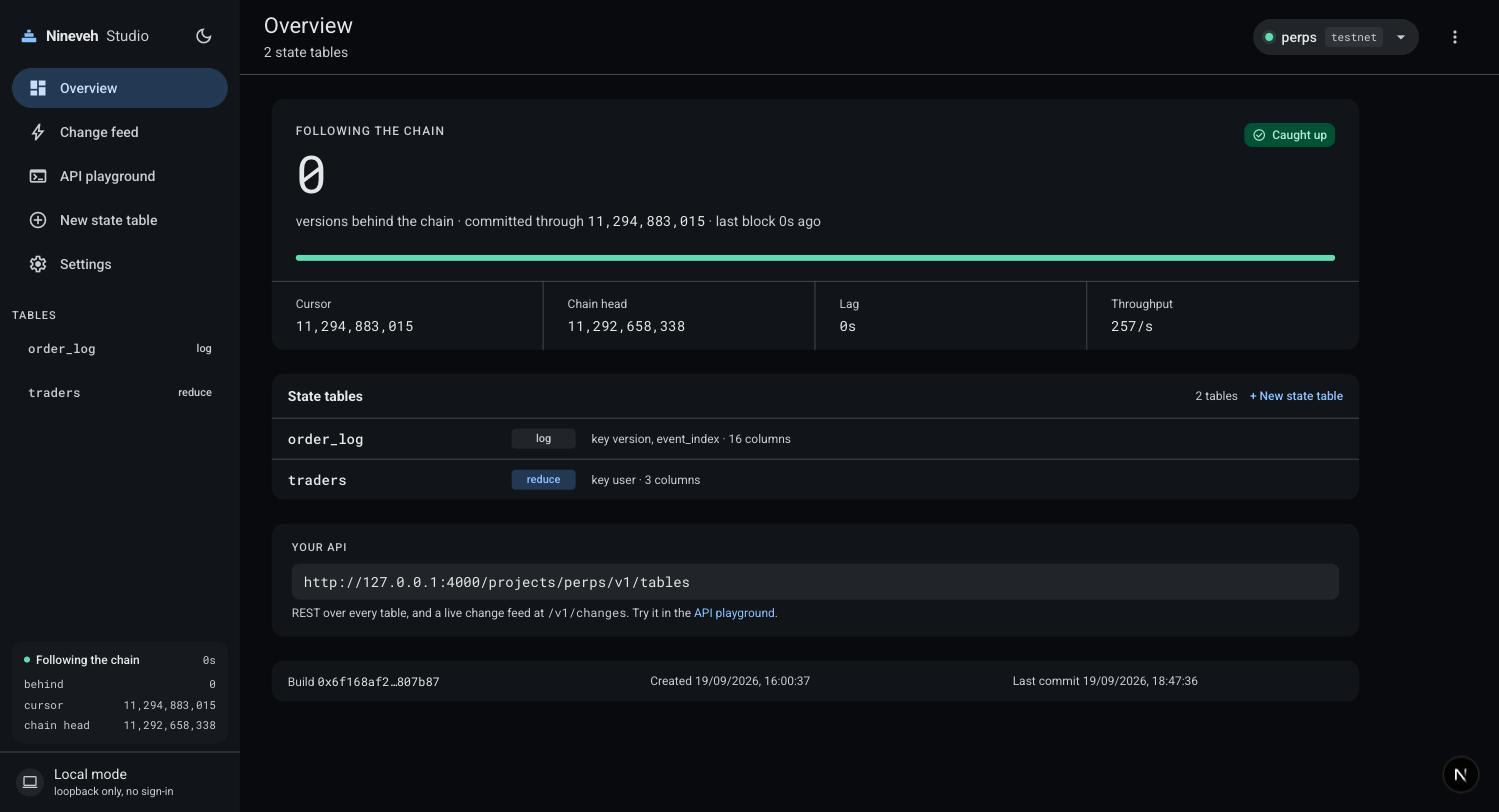
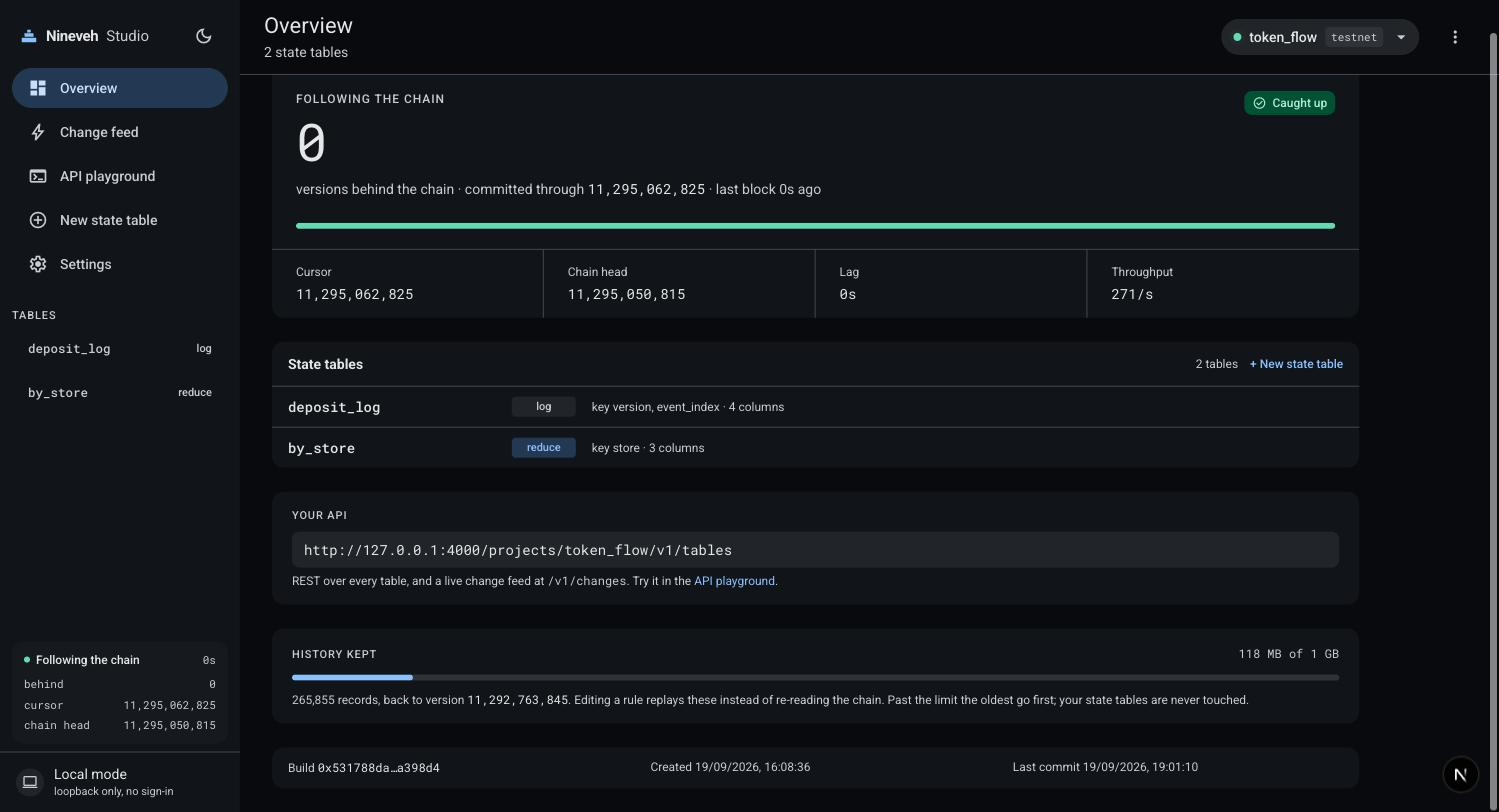
Show the storage card in the Studio shot, now that it loads
The overview screenshot was taken while `/usage` was still hanging, so the panel
it belongs in was missing from it. With that fixed the shot carries the whole
story — caught up, and holding 118 MB of its own history, which is how far back
it can be rebuilt without paying for the chain twice.

Claude-Session: https://claude.ai/code/session_01GCxzbB4XnoDVsKFtC1jYik

diff --git a/site/components/shots.tsx b/site/components/shots.tsx
@@ -35,8 +35,8 @@ const SHOTS = [
     tab: "Is it keeping up?",
     src: "/shots/overview.jpg",
     caption:
-      "Where the cursor is, how far behind the chain, and how fast it's folding. Caught up means caught up.",
-    alt: "Nineveh Studio's overview, showing the project caught up with the chain",
+      "Where the cursor is, how far behind the chain, how fast it's folding — and how much of its own history it's holding, which is how far back it can be rebuilt without reading the chain again.",
+    alt: "Nineveh Studio's overview, showing a project caught up with the chain and its history usage",
   },
 ];
 
